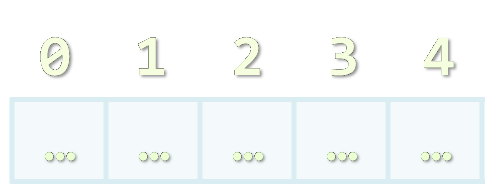
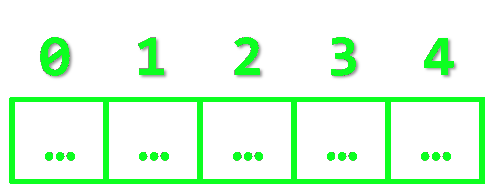
Removed unused images, final touches to the slides and markdown

diff --git a/Topics/07. Arrays/README.md b/Topics/07. Arrays/README.md
@@ -4,13 +4,10 @@
 # Arrays
 ## Processing Sequences of Elements
 
-<!-- <img class="slide-image" showInPresentation="true" src="imgs/pic00.png" style="top:52.01%; left:52.40%; width:51.13%; z-index:-1" /> -->
-<!-- <img class="slide-image" showInPresentation="true" src="imgs/pic01.png" style="top:9.59%; left:8.80%; width:58.75%; z-index:-1" /> -->
-
 <div class="signature">
-	<p class="signature-course"></p>
-	<p class="signature-initiative"></p>
-	<a href="" class="signature-link"></a>
+	<p class="signature-course">JavaScript Fundamentals</p>
+	<p class="signature-initiative">Telerik Software Academy</p>
+	<a href="https://telerikacademy.com" class="signature-link">https://telerikacademy.com</a>
 </div>
 
 <!-- section start -->
@@ -30,22 +27,22 @@
 
 <!-- section start -->
 
-<!-- attr: {class: 'slide-section', showInPresentation: true}  -->
-<!-- # Arrays Overview
-##  What are arrays? How to use arrays? -->
+<!-- attr: {class: 'slide-section', showInPresentation: true, hasScriptWrapper: true}  -->
+# Arrays Overview
+##  What are arrays? How to use arrays?
 
-<!-- <img class="slide-image" showInPresentation="true" src="imgs/pic03.png" style="top:7.93%; left:73.92%; width:29.97%; z-index:-1" /> -->
-<!-- <img class="slide-image" showInPresentation="true" src="imgs/pic04.png" style="top:43.97%; left:10.48%; width:58.75%; z-index:-1" /> -->
-<!-- <img class="slide-image" showInPresentation="true" src="imgs/pic05.png" style="top:44.70%; left:21.95%; width:29.56%; z-index:-1" /> -->
-
+<!-- attr: {hasScriptWrapper: true} -->
 # What are Arrays?
 - An **array** is a sequence of elements
   - The order of the elements is fixed
   - Does not have fixed size
     - Can get the current length (`Array.length`)
-<div class="fragment balloon" style="top:60.12%; left:7.05%; width:20.83%">Array of 5 elements</div>
-<div class="fragment balloon" style="top:58.24%; left:81.21%; width:18.33%">Element index</div>
-<div class="fragment balloon" style="top:44.21%; left:25.69%; width:22.17%">Element of an array</div>
+
+<img class="slide-image" src="imgs/pic01.png" style="width: 400px; left: 23%" />
+
+<div class="fragment balloon" style="top:43%; left:30%; width:20.83%">Array of 5 elements</div>
+<div class="fragment balloon" style="top:50%; left:64%; width:18.33%">Element index</div>
+<div class="fragment balloon" style="top:70%; left:25.69%; width:22.17%">Element of an array</div>
 
 
 
@@ -274,13 +271,13 @@ for (i in capitals) {
 <!-- section start -->
 
 <!-- attr: {class: 'slide-section', showInPresentation: true} -->
-<!-- # Array Manipulations
+<!-- # Array Methods
 ##  Reversing, joining, etc... -->
 <!-- <img class="slide-image" showInPresentation="true" src="imgs/pic21.png" style="top:25.98%; left:5.49%; width:88.46%; z-index:-1" /> -->
 <!-- <img class="slide-image" showInPresentation="true" src="imgs/pic22.png" style="top:10.58%; left:47.72%; width:48.00%; z-index:-1" /> -->
 
 <!-- attr: { style: 'font-size: 0.8em'} -->
-# Array Manipulations
+# Array Methods
 
 - `Array#reverse()`
   - **Reverses** the elements of the array
